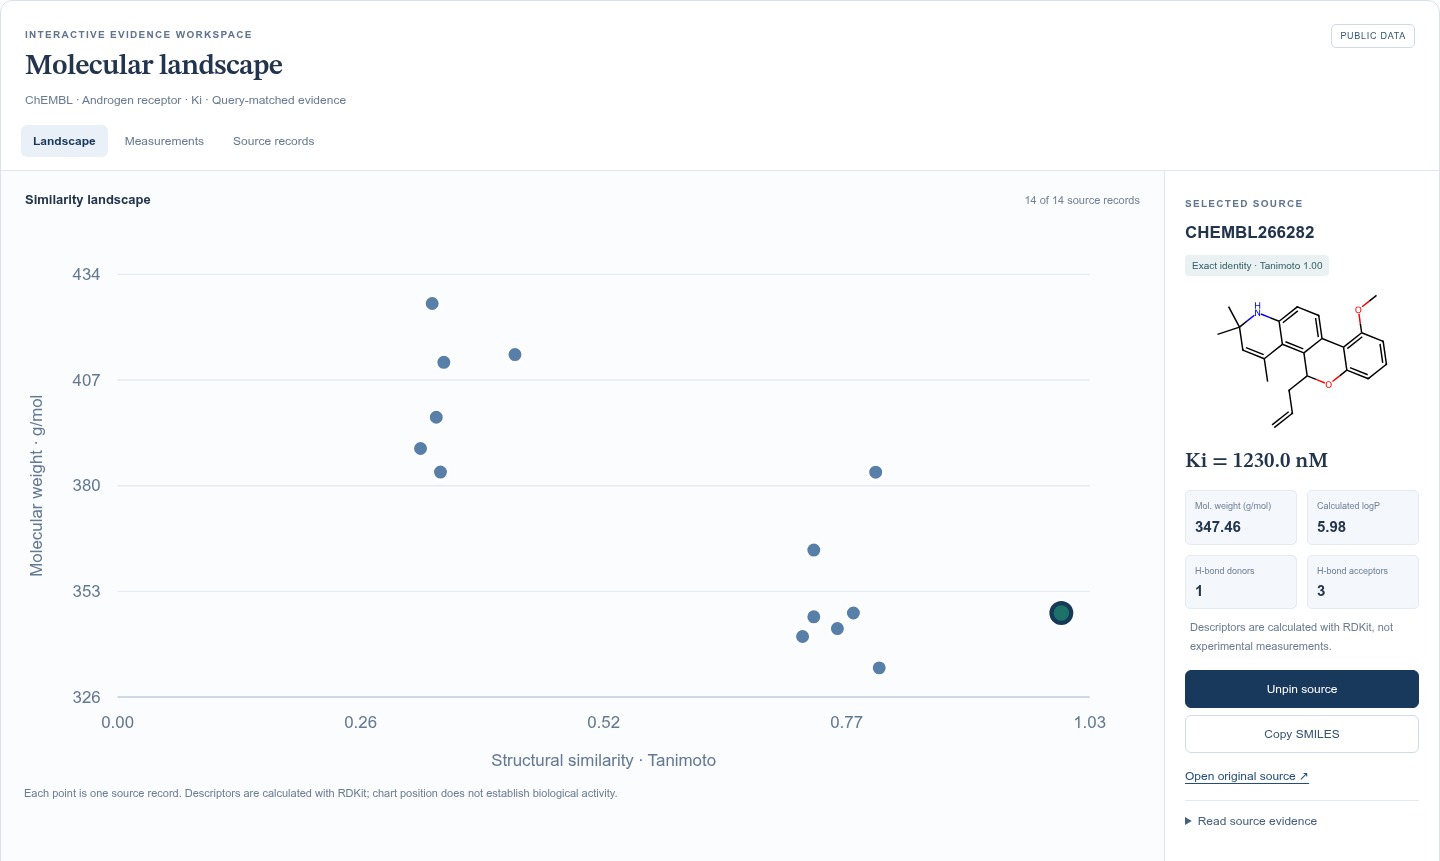
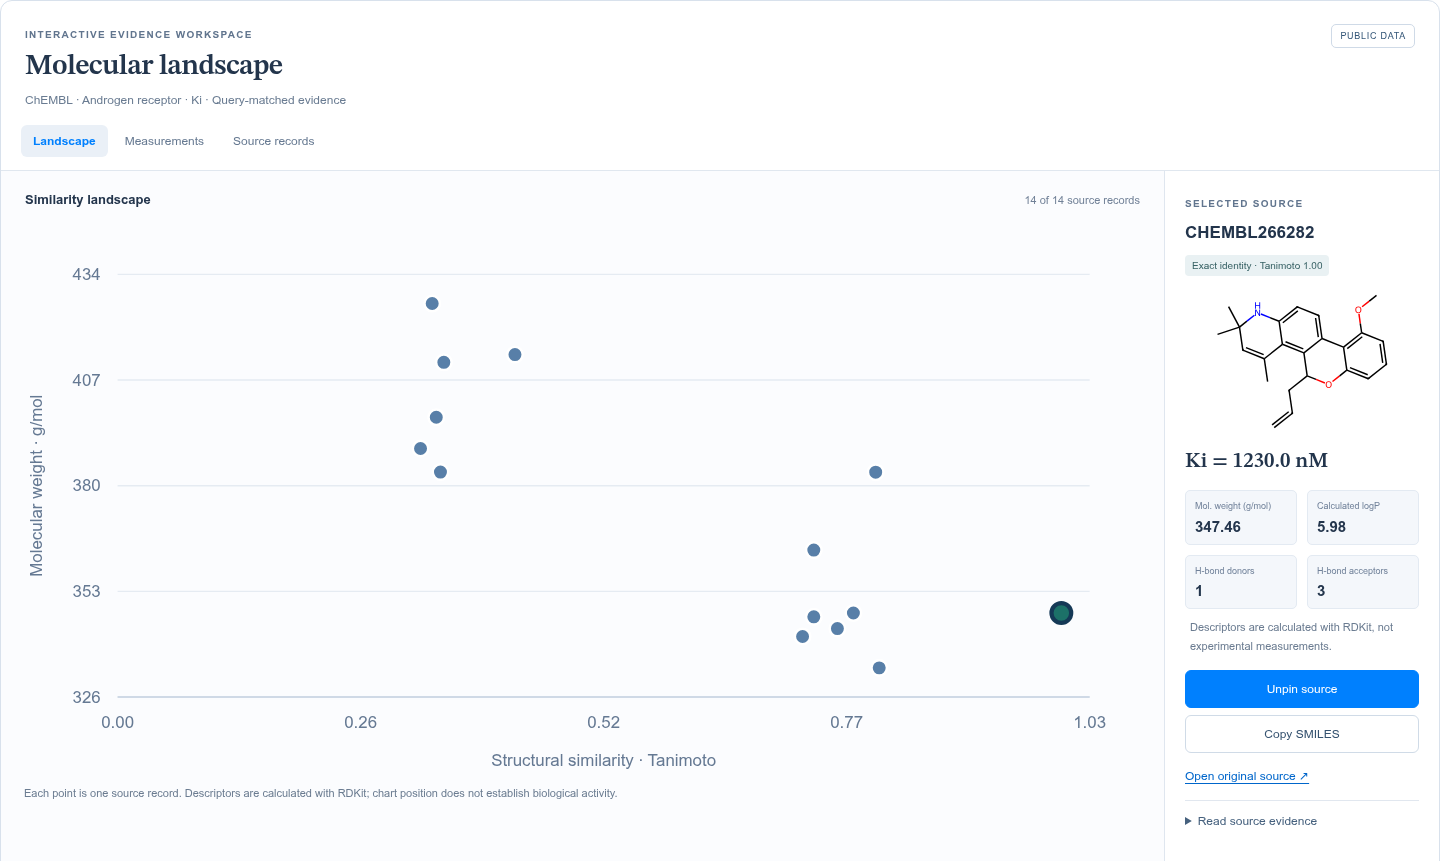
Use Azure blue accents

Changed region(s): [[0.8125, 0.7549, 1.0, 0.8455], [0.8438, 0.8757, 0.9062, 0.9059], [0.0312, 0.151, 0.0625, 0.1812]]

diff --git a/assets/css/academic.css b/assets/css/academic.css
@@ -8,8 +8,8 @@
 
 html:root,
 html[data-theme="light"] {
-  --global-theme-color: #18385c !important;
-  --global-hover-color: #254e78 !important;
+  --global-theme-color: #0080fe !important;
+  --global-hover-color: #0066cb !important;
   --global-hover-text-color: #ffffff !important;
   --global-text-color: #202c39 !important;
   --global-bg-color: #ffffff !important;
@@ -34,17 +34,17 @@ html body h4 {
   font-weight: 600;
   letter-spacing: -0.02em;
   line-height: 1.25;
-  color: #18385c;
+  color: #0080fe;
 }
 
 html body a {
-  color: #18385c;
+  color: #0080fe;
   text-underline-offset: 0.19em;
 }
 
 html body a:hover,
 html body a:focus-visible {
-  color: #254e78;
+  color: #0066cb;
 }
 
 html body .post-title {
